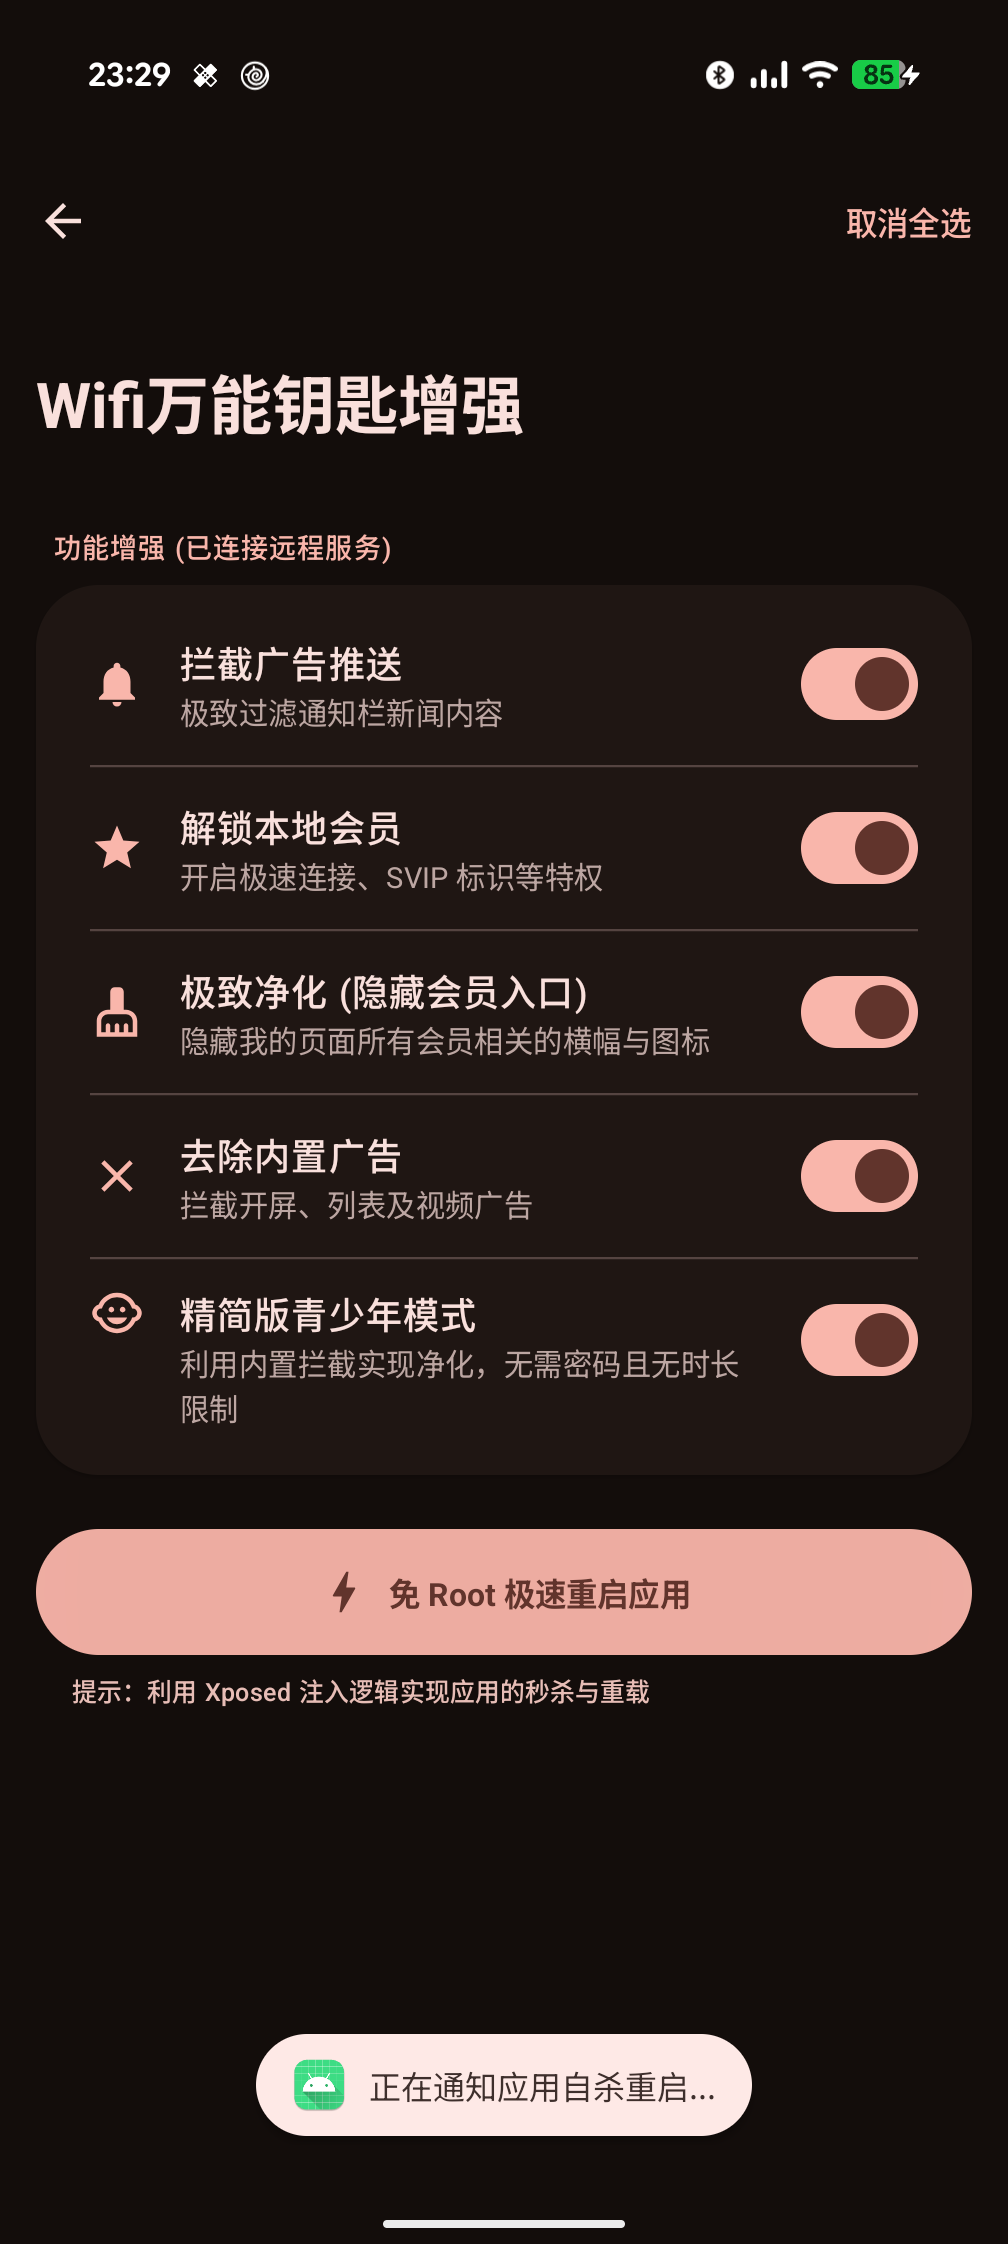
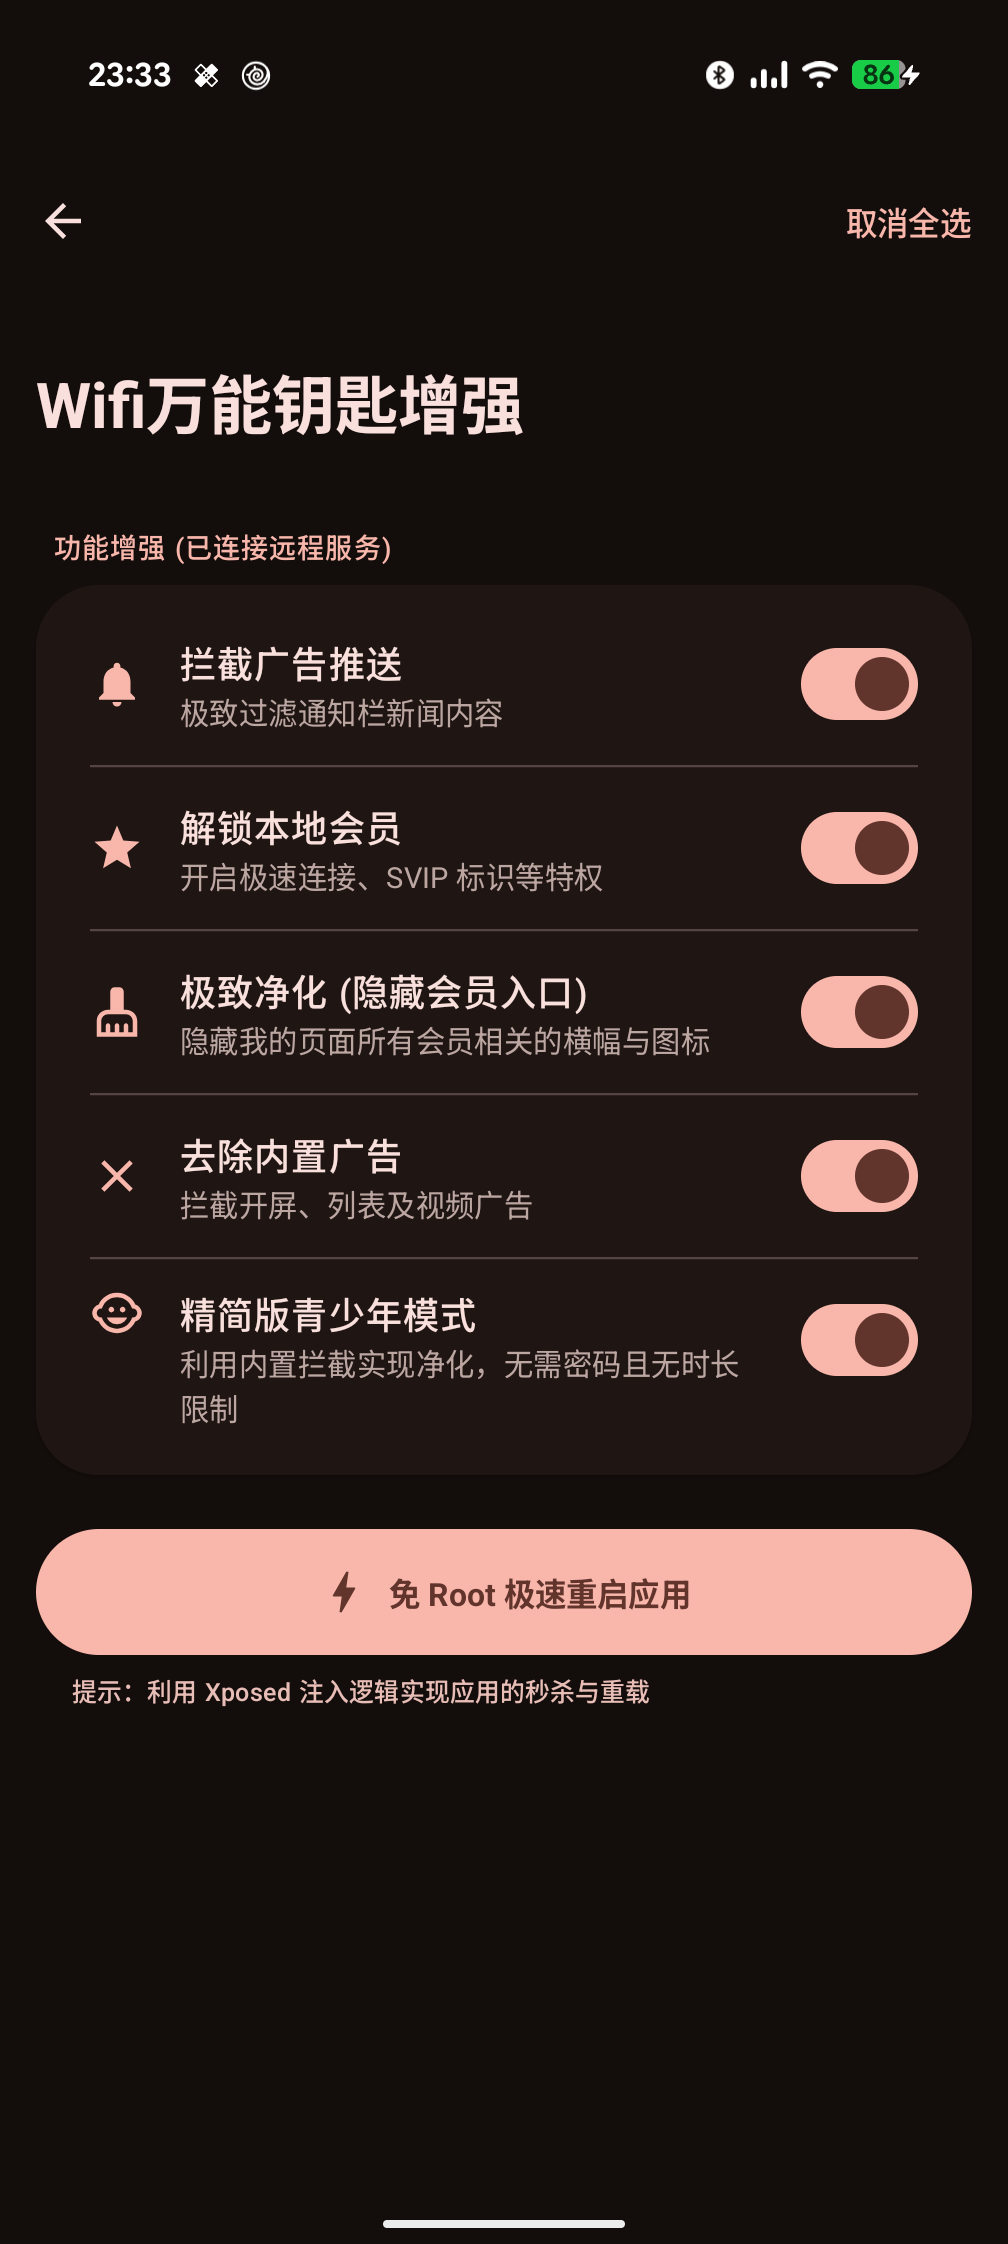
Robust Relaunch Strategy: replaced Handler delay with AlarmManager scheduled PendingIntent for guaranteed app relaunch after suicide

Changed region(s): [[0.246, 0.9046, 0.7688, 0.967], [0.246, 0.0312, 0.2768, 0.0624]]

diff --git a/app/src/main/java/com/ty/wifikeyxposed/SettingsActivity.kt b/app/src/main/java/com/ty/wifikeyxposed/SettingsActivity.kt
@@ -218,25 +218,39 @@ fun SettingsScreen(prefs: SharedPreferences, onBack: () -> Unit) {
                     val restartAction = "com.ty.wifikeyxposed.ACTION_RESTART"
                     
                     // 1. 发送免 Root 自杀广播
-                    val intent = android.content.Intent(restartAction)
-                    intent.setPackage(packageName)
-                    context.sendBroadcast(intent)
+                    val suicideIntent = android.content.Intent(restartAction).apply {
+                        setPackage(packageName)
+                    }
+                    context.sendBroadcast(suicideIntent)
                     
-                    Toast.makeText(context, "正在通知应用自杀重启...", Toast.LENGTH_SHORT).show()
-                    
-                    // 2. 增加延迟并增强拉起逻辑
-                    android.os.Handler(android.os.Looper.getMainLooper()).postDelayed({
+                    // 2. 利用 AlarmManager 实现系统级延时拉起 (真正意义上的模块自行发起)
+                    try {
+                        val am = context.getSystemService(android.content.Context.ALARM_SERVICE) as android.app.AlarmManager
                         val launchIntent = context.packageManager.getLaunchIntentForPackage(packageName)
                         if (launchIntent != null) {
-                            // 增加 FLAG_ACTIVITY_CLEAR_TASK 确保是全新的冷启动
                             launchIntent.addFlags(android.content.Intent.FLAG_ACTIVITY_NEW_TASK or android.content.Intent.FLAG_ACTIVITY_CLEAR_TASK)
-                            try {
-                                context.startActivity(launchIntent)
-                            } catch (e: Exception) {
-                                android.util.Log.e("WiFiKeyXposed", "Launch failed: " + e.message)
+                            
+                            val pendingIntent = android.app.PendingIntent.getActivity(
+                                context, 
+                                0, 
+                                launchIntent, 
+                                android.app.PendingIntent.FLAG_UPDATE_CURRENT or android.app.PendingIntent.FLAG_IMMUTABLE
+                            )
+                            
+                            // 预约 1.5 秒后拉起
+                            val triggerTime = System.currentTimeMillis() + 1500
+                            if (android.os.Build.VERSION.SDK_INT >= android.os.Build.VERSION_CODES.M) {
+                                am.setExactAndAllowWhileIdle(android.app.AlarmManager.RTC_WAKEUP, triggerTime, pendingIntent)
+                            } else {
+                                am.setExact(android.app.AlarmManager.RTC_WAKEUP, triggerTime, pendingIntent)
                             }
+                            
+                            Toast.makeText(context, "已预约系统在 1.5s 后重载应用", Toast.LENGTH_SHORT).show()
                         }
-                    }, 1500)
+                    } catch (e: Exception) {
+                        android.util.Log.e("WiFiKeyXposed", "Alarm setup failed: " + e.message)
+                        Toast.makeText(context, "拉起预约失败，请手动打开", Toast.LENGTH_SHORT).show()
+                    }
                 },
                 modifier = Modifier.fillMaxWidth(),
                 shape = MaterialTheme.shapes.extraLarge,
